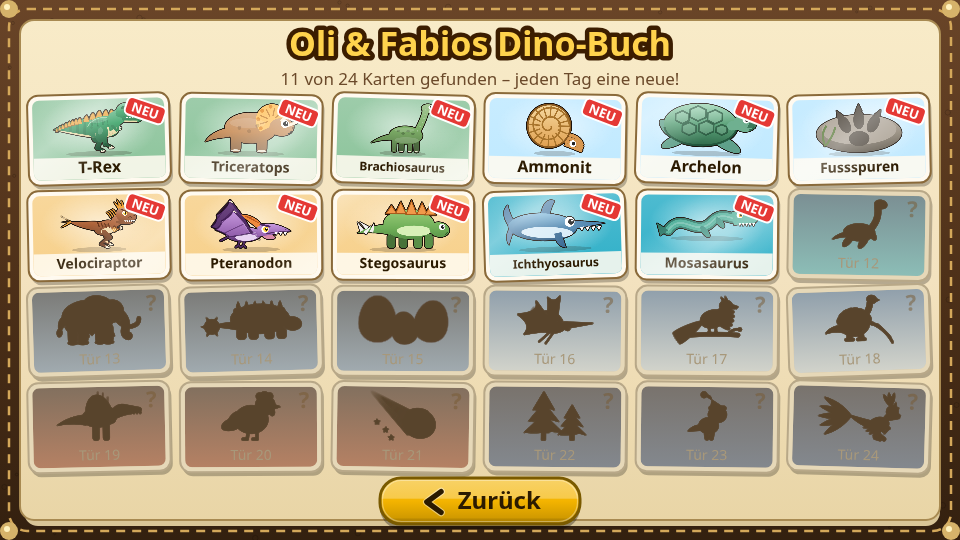
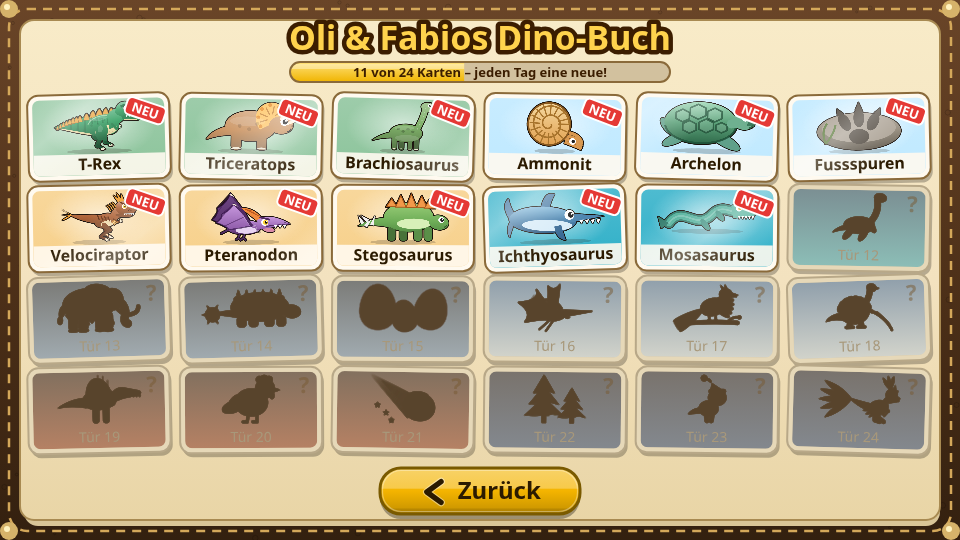
Rework Dino-Buch: richer facts, clearer Steckbrief, browse arrows
- Rewrite all 24 card texts with less trivial, checked facts
- Add "Name bedeutet" chip, world tag on the picture, child-chain size ruler
  and an Everest comparison for the meteorite
- Add previous/next arrows, progress pill and pop-in on the detail view
- Fit card names on the overview, tighten the grid

diff --git a/game.js b/game.js
@@ -690,33 +690,33 @@ WORLDS.push(
 );
 
 const FACTS_OLD = [
-  { name: 'T-Rex', text: 'Der Tyrannosaurus rex hatte rund 60 Zähne. Die grössten waren mit Wurzel so lang wie eine Banane!' },
-  { name: 'Triceratops', text: 'Der Triceratops hatte drei Hörner und einen riesigen Knochenschild am Nacken. Er frass nur Pflanzen.' },
-  { name: 'Brachiosaurus', text: 'Der Brachiosaurus war so hoch wie ein vierstöckiges Haus. Mit seinem langen Hals frass er Blätter ganz oben in den Bäumen.' },
-  { name: 'Velociraptor', text: 'Der Velociraptor war nur etwa so gross wie ein Truthahn – und er hatte Federn!' },
-  { name: 'Pteranodon', text: 'Der Pteranodon war gar kein Dinosaurier, sondern ein Flugsaurier. Seine Flügel waren breiter als ein Auto lang ist!' },
-  { name: 'Stegosaurus', text: 'Der Stegosaurus hatte grosse Platten auf dem Rücken und Stacheln am Schwanz. Sein Gehirn war nur so gross wie eine Walnuss!' },
-  { name: 'Wollhaarmammut', text: 'Das Wollhaarmammut lebte in der Eiszeit – viele Millionen Jahre nach den Dinosauriern. Sein dickes Fell hielt es warm.' },
-  { name: 'Ankylosaurus', text: 'Der Ankylosaurus war gepanzert wie ein Ritter und hatte eine schwere Knochenkeule am Schwanz.' },
-  { name: 'Dino-Eier', text: 'Alle Dinosaurier schlüpften aus Eiern. Die grössten Dino-Eier waren fast so gross wie ein Fussball!' },
-  { name: 'Spinosaurus', text: 'Der Spinosaurus hatte ein riesiges Segel auf dem Rücken. Er konnte schwimmen und frass am liebsten Fische.' },
-  { name: 'Huhn', text: 'Vögel stammen von Dinosauriern ab. Ein Huhn ist also ein entfernter Verwandter vom T-Rex!' },
-  { name: 'Meteorit', text: 'Vor etwa 66 Millionen Jahren schlug ein riesiger Meteorit auf der Erde ein. Danach starben die meisten Dinosaurier aus.' },
-  { name: 'Nadelbäume', text: 'Schon zur Dinozeit gab es Nadelbäume – dein Weihnachtsbaum hat also uralte Verwandte, die Dinos gesehen haben!' },
-  { name: 'Polar-Dinos', text: 'Sogar in der Nähe vom Südpol lebten Dinosaurier. Dort wurde es im Winter wochenlang dunkel und kalt!' },
-  { name: 'Federkleid', text: 'Viele Dinosaurier hatten Federn. Vielleicht hielten sie damit warm – wie eine kuschelige Winterjacke!' },
+  { name: 'T-Rex', text: 'Der T-Rex biss etwa zehnmal so fest zu wie ein Löwe – stark genug, um Knochen zu zermalmen. Seine winzigen Arme waren trotzdem sehr muskulös.' },
+  { name: 'Triceratops', text: 'Im Maul hatte der Triceratops mehrere Hundert Zähne in dichten Reihen, die ständig nachwuchsen – perfekt für zähe Pflanzen. Sein Schädel war über 2 Meter lang!' },
+  { name: 'Brachiosaurus', text: 'Der Brachiosaurus war bis zu 13 m hoch und rund 50 Tonnen schwer. Wie bei einer Giraffe waren seine Vorderbeine länger als die hinteren. Sein Herz musste das Blut bis in den Kopf hochpumpen!' },
+  { name: 'Velociraptor', text: 'Der echte Velociraptor war nur so gross wie ein Truthahn. Dass er Federn trug, weiss man von Knubbeln am Unterarmknochen, wo Federkiele festsassen. Die Film-Raptoren waren viel zu gross!' },
+  { name: 'Pteranodon', text: 'Der Pteranodon hatte keine Zähne, dafür einen langen Schnabel und einen Knochenkamm auf dem Kopf. Er war kein Dino, sondern ein Flugsaurier – seine Flügel spannten bis zu 6 Meter.' },
+  { name: 'Stegosaurus', text: 'Der Stegosaurus lebte etwa 80 Mio. Jahre vor dem T-Rex – der T-Rex lebte also zeitlich näher an uns als am Stegosaurus! Sein Gehirn war nur so gross wie eine Walnuss.' },
+  { name: 'Wollhaarmammut', text: 'Die letzten Mammuts lebten auf der Wrangelinsel noch vor rund 4000 Jahren – da standen die Pyramiden von Gizeh schon! Ihre Stosszähne wurden bis zu 4 Meter lang.' },
+  { name: 'Ankylosaurus', text: 'Der Ankylosaurus war ein wandelnder Panzer: Knochenplatten schützten Rücken, Kopf und sogar die Augenlider. Mit der Schwanzkeule konnte er einem Angreifer die Knochen brechen.' },
+  { name: 'Dino-Eier', text: 'Selbst die riesigsten Dinos legten nur Eier von der Grösse eines Fussballs – dickere Schalen hätten das Küken ersticken lassen. Das längste bekannte Dino-Ei misst über 40 cm.' },
+  { name: 'Spinosaurus', text: 'Der Spinosaurus war länger als der T-Rex. Mit krokodilartiger Schnauze, hoch sitzenden Nasenlöchern und einem paddelförmigen Schwanz jagte er wohl im Wasser nach Fischen.' },
+  { name: 'Huhn', text: 'Forscher fanden im Knochen eines T-Rex noch Eiweiss-Reste – und sie ähnelten denen eines Huhns am meisten! Alle Vögel sind lebende Dinosaurier.' },
+  { name: 'Meteorit', text: 'Der Meteorit schlug bei Chicxulub in Mexiko ein und riss einen Krater von rund 180 km. Staub verdunkelte den Himmel, Pflanzen starben. Nur kleine Tiere überlebten – auch die ersten Vögel.' },
+  { name: 'Nadelbäume', text: 'Nadelbäume gibt es seit rund 300 Mio. Jahren. Die Wollemie galt als ausgestorben, bis man 1994 in Australien lebende Bäume fand – ein Baum direkt aus der Dino-Zeit!' },
+  { name: 'Polar-Dinos', text: 'Vor 110 Mio. Jahren lag Südaustralien nahe am Südpol. Der kleine Leaellynasaura hatte grosse Augen für die Polarnacht – und seinen Namen von der Tochter der Finder.' },
+  { name: 'Federkleid', text: '1996 fand man in China den ersten Dino mit Federn – an seinem Schwanz sind sogar noch rotbraune Streifen zu erkennen! Auch der 9 m lange Yutyrannus, ein T-Rex-Verwandter, trug Federn.' },
 ];
 
 const FACTS_NEW = [
-  { name: 'Ammonit', text: 'Ammoniten waren Verwandte der Tintenfische mit einem Haus in Spiralform. Ihre Muscheln findet man heute noch versteinert!' },
-  { name: 'Archelon', text: 'Der Archelon war die grösste Meeresschildkröte aller Zeiten – so lang wie ein kleines Auto!' },
-  { name: 'Fussspuren', text: 'Dinosaurier haben Fussspuren hinterlassen. Im Stein kann man sie heute noch finden – sogar in der Schweiz!' },
-  { name: 'Ichthyosaurus', text: 'Der Ichthyosaurus sah aus wie ein Delfin, war aber ein Meeresreptil. Er konnte richtig schnell schwimmen!' },
-  { name: 'Mosasaurus', text: 'Der Mosasaurus war ein riesiges Meeresreptil – bis zu 12 Meter lang. Er war mit Echsen und Schlangen verwandt.' },
-  { name: 'Plesiosaurus', text: 'Der Plesiosaurus hatte einen langen Hals und vier Flossen. Er paddelte wie eine Schildkröte durchs Meer.' },
-  { name: 'Quetzalcoatlus', text: 'Der Quetzalcoatlus war einer der grössten Flugsaurier – seine Flügel waren so breit wie ein kleines Flugzeug!' },
-  { name: 'Archaeopteryx', text: 'Der Archaeopteryx war ein Urvogel mit Federn und Zähnen. Er war etwa so gross wie eine Elster.' },
-  { name: 'Therizinosaurus', text: 'Der Therizinosaurus hatte die längsten Krallen aller Tiere – so lang wie ein Unterarm! Er frass aber nur Pflanzen.' },
+  { name: 'Ammonit', text: 'Ammoniten schwammen in Urzeit-Meeren und starben zusammen mit den Dinos aus. Weil sich ihre Gehäuse so schnell veränderten, verraten sie Forschern genau, wie alt ein Gestein ist.' },
+  { name: 'Archelon', text: 'Der Archelon wog über 2 Tonnen. Statt eines harten Panzers hatte er einen Rücken aus Lederhaut mit Knochenstreben – und Flossen, die zusammen etwa 4 Meter spannten.' },
+  { name: 'Fussspuren', text: 'Bei Courtedoux im Jura fand man tausende Fussabdrücke von Langhals-Dinos. Aus dem Abstand der Spuren berechnen Forscher sogar, wie schnell ein Dino lief.' },
+  { name: 'Ichthyosaurus', text: 'Der Ichthyosaurus sah aus wie ein Delfin, war aber ein Reptil. Er atmete Luft und gebar lebende Junge im Wasser – meist mit dem Schwanz voran, damit sie nicht ertranken.' },
+  { name: 'Mosasaurus', text: 'Der Mosasaurus war ein Riesen-Verwandter der Warane und Schlangen und hatte sogar eine zweite Zahnreihe im Gaumen. Seinen ersten Schädel fand man bei Maastricht – daher der Name.' },
+  { name: 'Plesiosaurus', text: 'Das erste fast vollständige Plesiosaurus-Skelett fand 1823 die Fossiliensammlerin Mary Anning. Sein Hals hatte über 30 Wirbel – Menschen und Giraffen haben nur 7!' },
+  { name: 'Quetzalcoatlus', text: 'Der Quetzalcoatlus war am Boden so hoch wie eine Giraffe – und konnte trotzdem fliegen! Am Boden lief er auf allen vieren und stocherte wie ein Storch nach Beute.' },
+  { name: 'Archaeopteryx', text: '1861 fand man in Bayern ein Skelett mit Federn, Zähnen und Krallen an den Flügeln – ein Beweis, dass Vögel von Dinos abstammen. Wie gut er flog, ist bis heute umstritten.' },
+  { name: 'Therizinosaurus', text: 'Man fand zuerst nur seine Riesenkrallen (bis 50 cm) und hielt sie für Teile einer Riesenschildkröte! Dabei war er ein gefiederter Pflanzenfresser.' },
 ];
 // one card per level (24 days). Order follows the calendar: jungle, beach, canyon, underwater, ice age, mountains, volcano, Christmas.
 const FACTS = [...FACTS_OLD.slice(0, 3), ...FACTS_NEW.slice(0, 3), ...FACTS_OLD.slice(3, 6), ...FACTS_NEW.slice(3, 6), ...FACTS_OLD.slice(6, 9), ...FACTS_NEW.slice(6, 9), ...FACTS_OLD.slice(9, 12), ...FACTS_OLD.slice(12, 15)];
@@ -5484,7 +5484,7 @@ function drawSheet() {
     ['goetti', 'chili', 'rex', 'mami', 'papi', 'fabio', 'kiwi'].forEach((w, i) => drawPortrait(w, 70 + i * 130, 485, 38));
   }
 }
-let bookSel = -1;
+let bookSel = -1; const bookAnim = { sel: -1, t: 0 };
 function bookUnread() { const seen = save.bookSeen || []; return save.lvDone.reduce((n, d, i) => n + (d && !seen[i] ? 1 : 0), 0); } // found cards not yet opened in the Dino-Buch
 function leatherCover() {
   ctx.fillStyle = vgrad(0, H, '#6a4528', '#4f3119', '#33200f'); ctx.fillRect(0, 0, W, H);
@@ -5496,15 +5496,31 @@ function leatherCover() {
   rr(20, 20, W - 40, H - 40, 14); ctx.fillStyle = vgrad(20, H, '#f8ebc8', '#f3e2bf', '#e8d4a4'); ctx.fill(); ctx.lineWidth = 2; ctx.strokeStyle = '#a88a52'; ctx.stroke();
 }
 // ---------- Dino-Buch "Steckbrief": era, diet and a size comparison with a child ----------
-const STECK = [
-  { l: 'Lebte vor', e: '68 Mio. Jahren', d: 'Fleisch', dk: 'meat', m: 12 }, { l: 'Lebte vor', e: '68 Mio. Jahren', d: 'Pflanzen', dk: 'leaf', m: 9 }, { l: 'Lebte vor', e: '150 Mio. Jahren', d: 'Pflanzen', dk: 'leaf', m: 25 },
-  { l: 'Lebte vor', e: '200 Mio. Jahren', d: 'Plankton', dk: 'fish', m: 0.3 }, { l: 'Lebte vor', e: '75 Mio. Jahren', d: 'Quallen', dk: 'fish', m: 4 }, { l: 'Entstanden vor', e: '100 Mio. Jahren', d: '–', dk: 'none', m: 0.5 },
-  { l: 'Lebte vor', e: '75 Mio. Jahren', d: 'Fleisch', dk: 'meat', m: 2 }, { l: 'Lebte vor', e: '85 Mio. Jahren', d: 'Fische', dk: 'fish', m: 6, ml: 'Spannweite' }, { l: 'Lebte vor', e: '150 Mio. Jahren', d: 'Pflanzen', dk: 'leaf', m: 9 },
-  { l: 'Lebte vor', e: '200 Mio. Jahren', d: 'Fische', dk: 'fish', m: 3 }, { l: 'Lebte vor', e: '75 Mio. Jahren', d: 'Fleisch', dk: 'meat', m: 12 }, { l: 'Lebte vor', e: '200 Mio. Jahren', d: 'Fische', dk: 'fish', m: 4 },
-  { l: 'Lebte vor', e: '10 000 Jahren', d: 'Pflanzen', dk: 'leaf', m: 4 }, { l: 'Lebte vor', e: '68 Mio. Jahren', d: 'Pflanzen', dk: 'leaf', m: 7 }, { l: 'Gelegt vor', e: '70 Mio. Jahren', d: '–', dk: 'none', m: 0.3, ml: 'Grösse' },
-  { l: 'Lebte vor', e: '68 Mio. Jahren', d: 'Fleisch', dk: 'meat', m: 10, ml: 'Spannweite' }, { l: 'Lebte vor', e: '150 Mio. Jahren', d: 'Insekten', dk: 'meat', m: 0.5 }, { l: 'Lebte vor', e: '70 Mio. Jahren', d: 'Pflanzen', dk: 'leaf', m: 10 },
-  { l: 'Lebte vor', e: '95 Mio. Jahren', d: 'Fische', dk: 'fish', m: 14 }, { l: 'Lebt', e: 'heute noch', d: 'Alles', dk: 'all', m: 0.5 }, { l: 'Schlug ein vor', e: '66 Mio. Jahren', d: '–', dk: 'none', m: 0, txt: 'Etwa 10 km breit – so hoch wie der Mount Everest!' },
-  { l: 'Gibt es seit', e: '300 Mio. Jahren', d: 'Sonne', dk: 'none', m: 30, ml: 'Höhe' }, { l: 'Lebte vor', e: '110 Mio. Jahren', d: 'Pflanzen', dk: 'leaf', m: 1 }, { l: 'Lebte vor', e: '130 Mio. Jahren', d: 'Fleisch', dk: 'meat', m: 1 },
+const STECK = [ // order = FACTS. nm/nl: the "Name bedeutet" chip (nl overrides its label); m: metres for the ruler (0 = custom comparison)
+  { l: 'Lebte vor', e: '68 Mio. Jahren', d: 'Fleisch', dk: 'meat', m: 12, nm: '«König der Tyrannen-Echsen»' },
+  { l: 'Lebte vor', e: '68 Mio. Jahren', d: 'Pflanzen', dk: 'leaf', m: 9, nm: '«Dreihorn-Gesicht»' },
+  { l: 'Lebte vor', e: '150 Mio. Jahren', d: 'Pflanzen', dk: 'leaf', m: 25, nm: '«Arm-Echse» (lange Vorderbeine)' },
+  { l: 'Lebte vor', e: '400–66 Mio. Jahren', d: 'Plankton', dk: 'fish', m: 0.3, ml: 'Meist', nm: '«Ammons Horn» (Gott Amun)' },
+  { l: 'Lebte vor', e: '75 Mio. Jahren', d: 'Quallen', dk: 'fish', m: 4.6, nm: '«Herrscher-Schildkröte»' },
+  { l: 'Spuren von vor', e: '150 Mio. Jahren', d: '–', dk: 'none', m: 0.5, ml: 'Abdruck', nl: 'Fachwort', nm: 'Spurenfossil' },
+  { l: 'Lebte vor', e: '75 Mio. Jahren', d: 'Fleisch', dk: 'meat', m: 2, nm: '«Schneller Räuber»' },
+  { l: 'Lebte vor', e: '85 Mio. Jahren', d: 'Fische', dk: 'fish', m: 6, ml: 'Spannweite', nm: '«Flügel ohne Zähne»' },
+  { l: 'Lebte vor', e: '150 Mio. Jahren', d: 'Pflanzen', dk: 'leaf', m: 9, nm: '«Dach-Echse»' },
+  { l: 'Lebte vor', e: '200 Mio. Jahren', d: 'Fische', dk: 'fish', m: 3, nm: '«Fisch-Echse»' },
+  { l: 'Lebte vor', e: '75 Mio. Jahren', d: 'Fleisch', dk: 'meat', m: 12, nm: '«Maas-Echse» (Fundort Maastricht)' },
+  { l: 'Lebte vor', e: '200 Mio. Jahren', d: 'Fische', dk: 'fish', m: 4, nm: '«Fast-Echse»' },
+  { l: 'Starb aus vor', e: '4000 Jahren', d: 'Pflanzen', dk: 'leaf', m: 4, nl: 'Fachname', nm: 'Mammuthus primigenius' },
+  { l: 'Lebte vor', e: '68 Mio. Jahren', d: 'Pflanzen', dk: 'leaf', m: 7, nm: '«Verwachsene Echse»' },
+  { l: 'Gelegt vor', e: '70 Mio. Jahren', d: '–', dk: 'none', m: 0.3, ml: 'Grösse', nl: 'Fachwort', nm: 'Oologie = Eier-Forschung' },
+  { l: 'Lebte vor', e: '68 Mio. Jahren', d: 'Fleisch', dk: 'meat', m: 10, ml: 'Spannweite', nm: '«Gefiederte Schlange» (Aztekengott)' },
+  { l: 'Lebte vor', e: '150 Mio. Jahren', d: 'Insekten', dk: 'meat', m: 0.5, nm: '«Alte Feder»' },
+  { l: 'Lebte vor', e: '70 Mio. Jahren', d: 'Pflanzen', dk: 'leaf', m: 10, nm: '«Sichel-Echse»' },
+  { l: 'Lebte vor', e: '95 Mio. Jahren', d: 'Fische', dk: 'fish', m: 14, nm: '«Dornen-Echse»' },
+  { l: 'Lebt', e: 'heute noch', d: 'Alles', dk: 'all', m: 0.5, nl: 'Fachname', nm: 'Gallus gallus' },
+  { l: 'Schlug ein vor', e: '66 Mio. Jahren', d: '–', dk: 'none', m: 0, cmp: 'everest', txt: 'Etwa 10 km breit – breiter, als der Mount Everest hoch ist!', nl: 'Einschlag bei', nm: 'Chicxulub in Mexiko' },
+  { l: 'Gibt es seit', e: '300 Mio. Jahren', d: 'Sonne', dk: 'none', m: 30, ml: 'Höhe', nl: 'Fachwort', nm: 'Koniferen = Zapfenträger' },
+  { l: 'Lebte vor', e: '110 Mio. Jahren', d: 'Pflanzen', dk: 'leaf', m: 1, nl: 'Bekanntester Polar-Dino', nm: 'Leaellynasaura' },
+  { l: 'Lebte vor', e: '125 Mio. Jahren', d: 'Fleisch', dk: 'meat', m: 1, nl: 'Erster Feder-Dino', nm: 'Sinosauropteryx (China)' },
 ];
 function drawKid(x, base, h) { // a child silhouette, h pixels tall, standing at x
   const u = h / 100; ctx.save(); ctx.translate(x, base); ctx.scale(u, u);
@@ -5514,14 +5530,29 @@ function drawKid(x, base, h) { // a child silhouette, h pixels tall, standing at
 }
 function drawSizeRuler(x, y, w, h, st, th) {
   rr(x, y, w, h, 14); ctx.fillStyle = 'rgba(255,250,235,.9)'; ctx.fill(); ctx.lineWidth = 2; ctx.strokeStyle = '#b8a070'; ctx.stroke();
-  if (!st.m) { txt('Grösse im Vergleich', x + w / 2, y + 14, 14, '#8a6a3a', 'center', 'normal'); wrapLines(st.txt || '', w - 40, 17).forEach((l, i, a) => txt(l, x + w / 2, y + h / 2 + 6 + (i - (a.length - 1) / 2) * 22, 17, '#3b2410', 'center', 'normal')); return; }
-  const base = y + h - 12, sc = Math.min(36, (w - 70) / st.m), kidH = 1.4 * sc, len = st.m * sc, kx = x + 34;
-  txt('Grösse im Vergleich', x + w / 2, y + 14, 14, '#8a6a3a', 'center', 'normal');
-  ctx.strokeStyle = 'rgba(138,106,58,.35)'; ctx.lineWidth = 2; ctx.setLineDash([5, 5]); ctx.beginPath(); ctx.moveTo(x + 14, base); ctx.lineTo(x + w - 14, base); ctx.stroke(); ctx.setLineDash([]);
-  drawKid(kx, base, Math.max(14, kidH));
-  const bx = kx + 20, by = base - 20; rr(bx, by, Math.max(8, len), 18, 9); ctx.fillStyle = vgrad(by, by + 18, shade(th.sky[0], 1.25), shade(th.sky[0], 0.8)); ctx.fill(); ctx.lineWidth = 2.5; ctx.strokeStyle = '#2b1a0c'; ctx.stroke();
+  txt('Grösse im Vergleich', x + 16, y + 17, 13, '#8a6a3a', 'left', 'normal');
+  const base = y + h - 16;
+  if (st.cmp !== 'everest') { ctx.strokeStyle = 'rgba(138,106,58,.35)'; ctx.lineWidth = 2; ctx.setLineDash([5, 5]); ctx.beginPath(); ctx.moveTo(x + 14, base + 2); ctx.lineTo(x + w - 14, base + 2); ctx.stroke(); ctx.setLineDash([]); }
+  if (st.cmp === 'everest') { // meteorite vs. mountain, 6 px per km
+    const k = 6, bs = y + h - 32, mx = x + w * 0.3, cx = x + w * 0.7;
+    wrapLines(st.txt, w - 32, 14).forEach((l, i) => txt(l, x + w / 2, y + 40 + i * 18, 14, '#3b2410', 'center', 'normal'));
+    ctx.fillStyle = '#8f98a6'; ctx.beginPath(); ctx.moveTo(mx - 40, bs); ctx.lineTo(mx, bs - 8.8 * k); ctx.lineTo(mx + 40, bs); ctx.closePath(); ctx.fill(); ctx.strokeStyle = '#4a525e'; ctx.lineWidth = 2; ctx.lineJoin = 'round'; ctx.stroke();
+    const ty = bs - 8.8 * k; ctx.fillStyle = '#fff'; ctx.beginPath(); ctx.moveTo(mx - 9, ty + 14); ctx.lineTo(mx, ty); ctx.lineTo(mx + 9, ty + 14); ctx.lineTo(mx + 3, ty + 11); ctx.lineTo(mx - 2, ty + 15); ctx.closePath(); ctx.fill();
+    circle(cx, bs - 5 * k, 5 * k, '#6b5a4a'); circle(cx - 8, bs - 5 * k - 8, 6, 'rgba(255,255,255,.14)'); ctx.strokeStyle = '#2b1a0c'; ctx.lineWidth = 2.5; ctx.beginPath(); ctx.arc(cx, bs - 5 * k, 5 * k, 0, 7); ctx.stroke();
+    txt('Mount Everest: 8,8 km', mx, y + h - 14, 12, '#3b2410', 'center'); txt('Meteorit: 10 km', cx, y + h - 14, 12, '#3b2410', 'center');
+    return;
+  }
   const m = st.m >= 10 ? Math.round(st.m) : String(st.m).replace('.', ','), kids = Math.max(1, Math.round(st.m / 1.4));
-  txt(`${st.ml || 'Länge'}: ${m} m`, x + w - 16, y + 31, 18, '#3b2410', 'right'); txt(st.m < 1 ? 'kleiner als ein Kind' : `so lang wie ${kids} ${kids === 1 ? 'Kind' : 'Kinder'}`, x + w - 16, y + 50, 14, '#6b4a2b', 'right', 'normal');
+  const chain = kids >= 2 && st.m >= 2, sc = Math.min(48, (w - (chain ? 44 : 76)) / st.m), kidH = 1.4 * sc, len = st.m * sc, kx = x + 30;
+  txt(`${st.ml || 'Länge'}: ${m} m`, x + 16, y + 41, 22, '#3b2410', 'left');
+  txt(st.m < 1 ? 'kleiner als ein Kind' : `so lang wie ${kids} ${kids === 1 ? 'Kind' : 'Kinder'}`, x + w - 16, y + 17, 14, '#6b4a2b', 'right', 'normal');
+  if (!chain) drawKid(kx, base, Math.max(14, kidH));
+  const bx = chain ? x + 22 : kx + 22, bh = Math.max(10, Math.min(30, sc * 0.9)), by = base - bh, bl = Math.max(8, len);
+  rr(bx, by, bl, bh, bh / 2); ctx.fillStyle = vgrad(by, base, shade(th.sky[0], 1.3), shade(th.sky[0], 0.8)); ctx.fill(); ctx.lineWidth = 2.5; ctx.strokeStyle = '#2b1a0c'; ctx.stroke();
+  if (st.m >= 2) { const step = st.m > 14 ? 5 : 1; ctx.save(); rr(bx, by, bl, bh, bh / 2); ctx.clip(); ctx.strokeStyle = 'rgba(255,255,255,.55)'; ctx.lineWidth = 1.5; for (let u = step; u < st.m; u += step) { ctx.beginPath(); ctx.moveTo(bx + u * sc, by + bh * 0.55); ctx.lineTo(bx + u * sc, base); ctx.stroke(); } ctx.restore(); }
+  if (chain) { const sp = bl / kids, hk = Math.max(16, Math.min(34, sp * 1.7)); for (let k = 0; k < kids; k++) drawKid(bx + sp * (k + 0.5), by - 3, hk); } // a chain of children, as long as the animal
+  else if (st.m >= 2) { ctx.strokeStyle = '#8a6a3a'; ctx.lineWidth = 2; ctx.beginPath(); ctx.moveTo(bx, by - 11); ctx.lineTo(bx, by - 5); ctx.moveTo(bx, by - 8); ctx.lineTo(bx + bl, by - 8); ctx.moveTo(bx + bl, by - 11); ctx.lineTo(bx + bl, by - 5); ctx.stroke(); }
+  if (st.m >= 2) txt(st.m > 14 ? '1 Strich = 5 m' : '1 Strich = 1 m', x + w - 16, y + 41, 12, '#8a6a3a', 'right', 'normal');
 }
 function drawHourglass(x, y) { ctx.fillStyle = '#e8c070'; ctx.strokeStyle = '#6b4a2b'; ctx.lineWidth = 2; ctx.beginPath(); ctx.moveTo(x - 8, y - 10); ctx.lineTo(x + 8, y - 10); ctx.lineTo(x + 1.5, y); ctx.lineTo(x + 8, y + 10); ctx.lineTo(x - 8, y + 10); ctx.lineTo(x - 1.5, y); ctx.closePath(); ctx.fill(); ctx.stroke(); ctx.fillStyle = '#c98a3a'; ctx.beginPath(); ctx.moveTo(x - 5, y + 9); ctx.lineTo(x + 5, y + 9); ctx.lineTo(x, y + 3); ctx.fill(); }
 function drawDietIcon(k, x, y) {
@@ -5532,6 +5563,8 @@ function drawDietIcon(k, x, y) {
   if (k === 'none') { ctx.strokeStyle = '#a09070'; ctx.lineWidth = 3; ctx.beginPath(); ctx.moveTo(-7, 0); ctx.lineTo(7, 0); ctx.stroke(); }
   ctx.restore();
 }
+function drawNameIcon(x, y) { circle(x, y, 11, '#f0d58a'); ctx.lineWidth = 2; ctx.strokeStyle = '#8a6a3a'; ctx.beginPath(); ctx.arc(x, y, 11, 0, 7); ctx.stroke(); txt('Aa', x, y + 1, 12, '#5a3a14', 'center'); }
+function fitTxt(s, x, y, maxW, size, min, color, align = 'center') { let fs = size; setFont(fs); while (ctx.measureText(s).width > maxW && fs > min) { fs--; setFont(fs); } txt(s, x, y, fs, color, align); }
 function steckChip(x, y, w, label, value, icon) {
   rr(x, y + 2, w, 42, 12); ctx.fillStyle = 'rgba(0,0,0,.12)'; ctx.fill(); rr(x, y, w, 42, 12); ctx.fillStyle = '#fffaf0'; ctx.fill(); ctx.lineWidth = 2; ctx.strokeStyle = '#b8a070'; ctx.stroke();
   icon(x + 22, y + 21); txt(label, x + 42, y + 13, 12, '#8a6a3a', 'left', 'normal');
@@ -5543,35 +5576,56 @@ function foil(x, y, w, h, r, t) { // diagonal shimmer on found cards
 }
 function drawBook() {
   leatherCover();
-  otxt('Oli & Fabios Dino-Buch', W / 2, 46, 34, '#ffd34d', '#3b1d00', 9);
   const found = save.lvDone.filter(Boolean).length;
-  txt(`${found} von ${FACTS.length} Karten gefunden – jeden Tag eine neue!`, W / 2, 80, 17, '#6b4a2b', 'center', 'normal');
+  if (bookSel < 0) {
+    otxt('Oli & Fabios Dino-Buch', W / 2, 40, 34, '#ffd34d', '#3b1d00', 9);
+    const bw = 380, bx = (W - bw) / 2, by = 62, fr = found / FACTS.length; // progress pill
+    rr(bx, by, bw, 20, 10); ctx.fillStyle = 'rgba(80,50,20,.22)'; ctx.fill();
+    if (fr > 0) { ctx.save(); rr(bx, by, bw, 20, 10); ctx.clip(); ctx.fillStyle = vgrad(by, by + 20, '#ffe27a', '#f0b400'); ctx.fillRect(bx, by, Math.max(20, bw * fr), 20); ctx.fillStyle = 'rgba(255,255,255,.35)'; ctx.fillRect(bx, by + 2, Math.max(20, bw * fr), 5); ctx.restore(); }
+    rr(bx, by, bw, 20, 10); ctx.lineWidth = 2; ctx.strokeStyle = '#8a6a3a'; ctx.stroke();
+    txt(found >= FACTS.length ? 'Alle Karten gefunden – echte Dino-Forscher!' : `${found} von ${FACTS.length} Karten – jeden Tag eine neue!`, W / 2, by + 11, 13, '#3b1d00');
+  }
   if (!save.bookSeen) save.bookSeen = [];
   for (let i = 0; i < FACTS.length; i++) {
     const lv = LEVELS[i], th = WORLDS[lv.wi], has = !!save.lvDone[i];
-    const x = 28 + (i % 6) * 152, y = 94 + Math.floor(i / 6) * 96, w = 142, h = 90, isNew = has && !save.bookSeen[i];
+    const x = 28 + (i % 6) * 152, y = 94 + Math.floor(i / 6) * 91, w = 142, h = 86, isNew = has && !save.bookSeen[i];
     ctx.save(); ctx.translate(x + w / 2, y + h / 2); ctx.rotate((hash(i * 3 + 1) - 0.5) * 0.07); ctx.translate(-w / 2, -h / 2);
     rr(2, 4, w, h, 11); ctx.fillStyle = 'rgba(0,0,0,.25)'; ctx.fill();
     rr(0, 0, w, h, 11); ctx.fillStyle = has ? '#fffaf0' : '#e6d8b8'; ctx.fill(); ctx.lineWidth = 2; ctx.strokeStyle = has ? '#8a6a3a' : '#b8a888'; ctx.stroke();
     rr(5, 5, w - 10, h - 10, 7); ctx.fillStyle = has ? vgrad(5, h - 5, shade(th.sky[1], 1.15), th.sky[1]) : '#d8c8a8'; ctx.fill();
-    if (has) { drawCardArt(i, w / 2, 36, 120, false); ctx.save(); rr(5, 5, w - 10, h - 10, 7); ctx.clip(); ctx.fillStyle = 'rgba(255,250,240,.88)'; ctx.fillRect(5, h - 27, w - 10, 22); ctx.restore(); txt(FACTS[i].name, w / 2, h - 16, FACTS[i].name.length > 12 ? 12 : FACTS[i].name.length > 9 ? 14 : 16, '#2b1a00'); foil(5, 5, w - 10, h - 10, 7, T + i); }
-    else { ctx.save(); rr(5, 5, w - 10, h - 10, 7); ctx.clip(); ctx.globalAlpha = 0.45; ctx.fillStyle = vgrad(5, h - 5, th.sky[0], th.sky[1]); ctx.fillRect(5, 5, w - 10, h - 10); ctx.globalAlpha = 1; ctx.restore(); drawCardArt(i, w / 2, 36, 120, true); txt(`Tür ${i + 1}`, w / 2, h - 16, 14, '#a8987a', 'center', 'normal'); txt('?', w - 18, 20, 22, 'rgba(120,90,50,.5)'); }
+    if (has) { drawCardArt(i, w / 2, 34, 118, false); ctx.save(); rr(5, 5, w - 10, h - 10, 7); ctx.clip(); ctx.fillStyle = 'rgba(255,250,240,.9)'; ctx.fillRect(5, h - 26, w - 10, 21); ctx.restore(); fitTxt(FACTS[i].name, w / 2, h - 15, w - 22, 16, 11, '#2b1a00'); foil(5, 5, w - 10, h - 10, 7, T + i); }
+    else { ctx.save(); rr(5, 5, w - 10, h - 10, 7); ctx.clip(); ctx.globalAlpha = 0.45; ctx.fillStyle = vgrad(5, h - 5, th.sky[0], th.sky[1]); ctx.fillRect(5, 5, w - 10, h - 10); ctx.globalAlpha = 1; ctx.restore(); drawCardArt(i, w / 2, 34, 118, true); txt(`Tür ${i + 1}`, w / 2, h - 15, 14, '#a8987a', 'center', 'normal'); txt('?', w - 18, 20, 22, 'rgba(120,90,50,.5)'); }
     if (isNew) { ctx.save(); ctx.translate(w - 24, 18); ctx.rotate(0.35); rr(-20, -9, 40, 18, 5); ctx.fillStyle = '#e53935'; ctx.fill(); ctx.lineWidth = 2; ctx.strokeStyle = '#fff'; ctx.stroke(); txt('NEU', 0, 1, 13, '#fff'); ctx.restore(); }
     ctx.restore();
     if (bookSel < 0) buttons.push({ x, y, w, h, cb: () => { if (has) { bookSel = i; save.bookSeen[i] = true; writeSave(); } else toast(`Diese Karte findest du in Tür ${i + 1}.`, '#fff'); } });
   }
-  if (bookSel < 0) button('Zurück', W / 2 - 100, H - 62, 200, 46, () => go('map'), { size: 24, icon: icon('back') });
+  if (bookSel < 0) button('Zurück', W / 2 - 100, H - 72, 200, 46, () => go('map'), { size: 24, icon: icon('back') });
   else {
-    const th = WORLDS[LEVELS[bookSel].wi], st = STECK[bookSel];
-    panel(90, 56, 780, 420);
-    ctx.save(); rr(120, 88, 340, 186, 18); ctx.clip(); ctx.fillStyle = vgrad(88, 274, shade(th.sky[1], 1.2), th.sky[1]); ctx.fillRect(120, 88, 340, 186); ctx.restore(); rr(120, 88, 340, 186, 18); ctx.lineWidth = 4; ctx.strokeStyle = '#fffaf0'; ctx.stroke(); rr(118, 86, 344, 190, 20); ctx.lineWidth = 2; ctx.strokeStyle = '#8a6a3a'; ctx.stroke();
-    drawCardArt(bookSel, 290, 181, 262, false); foil(120, 88, 340, 186, 18, T);
-    drawSizeRuler(120, 284, 340, 96, st, th);
-    txt(FACTS[bookSel].name, 500, 118, FACTS[bookSel].name.length > 11 ? 32 : 38, '#3b2410', 'left'); txt(`Tür ${bookSel + 1} · ${LEVELS[bookSel].title}`, 500, 150, 18, '#8a6a3a', 'left', 'normal');
-    wrapLines(FACTS[bookSel].text, 340, 21).forEach((l, i) => txt(l, 500, 184 + i * 27, 21, '#3b2410', 'left', 'normal'));
-    if (st.d === '–') steckChip(500, 314, 350, st.l, st.e, (x, y) => drawHourglass(x, y)); else { steckChip(500, 314, 172, st.l, st.e, (x, y) => drawHourglass(x, y)); steckChip(678, 314, 172, 'Frisst', st.d, (x, y) => drawDietIcon(st.dk, x, y)); } steckChip(500, 362, 350, 'Zuhause in der Welt', th.name, (x, y) => { ctx.save(); rr(x - 13, y - 9, 26, 18, 4); ctx.clip(); drawThemeThumb(LEVELS[bookSel].wi, x - 13, y - 9, 26, 18); ctx.restore(); });
-    button('Schliessen', W / 2 - 110, 420, 220, 46, () => { bookSel = -1; }, { icon: icon('check'), size: 24 });
+    if (bookAnim.sel !== bookSel) { bookAnim.sel = bookSel; bookAnim.t = T; }
+    const th = WORLDS[LEVELS[bookSel].wi], st = STECK[bookSel], f = FACTS[bookSel], pu = clamp((T - bookAnim.t) * 7, 0, 1), pop = 0.94 + 0.06 * (1 - Math.pow(1 - pu, 3));
+    ctx.save(); ctx.translate(W / 2, H / 2); ctx.scale(pop, pop); ctx.translate(-W / 2, -H / 2); ctx.globalAlpha = 0.4 + 0.6 * pu;
+    panel(80, 34, 800, 474);
+    ctx.save(); rr(112, 66, 350, 196, 18); ctx.clip(); ctx.fillStyle = vgrad(66, 262, shade(th.sky[1], 1.2), th.sky[1]); ctx.fillRect(112, 66, 350, 196); ctx.restore(); rr(112, 66, 350, 196, 18); ctx.lineWidth = 4; ctx.strokeStyle = '#fffaf0'; ctx.stroke(); rr(110, 64, 354, 200, 20); ctx.lineWidth = 2; ctx.strokeStyle = '#8a6a3a'; ctx.stroke();
+    drawCardArt(bookSel, 287, 160, 296, false); foil(112, 66, 350, 196, 18, T);
+    { const wl = th.name; setFont(13); const pw = ctx.measureText(wl).width + 50; rr(122, 228, pw, 26, 13); ctx.fillStyle = 'rgba(255,250,235,.92)'; ctx.fill(); ctx.lineWidth = 1.5; ctx.strokeStyle = '#b8a070'; ctx.stroke(); ctx.save(); rr(126, 232, 28, 18, 4); ctx.clip(); drawThemeThumb(LEVELS[bookSel].wi, 126, 232, 28, 18); ctx.restore(); txt(wl, 162, 242, 13, '#3b2410', 'left'); }
+    drawSizeRuler(112, 272, 350, 156, st, th);
+    fitTxt(f.name, 496, 98, 352, 38, 26, '#3b2410', 'left'); txt(`Tür ${bookSel + 1} · ${LEVELS[bookSel].title}`, 496, 132, 17, '#8a6a3a', 'left', 'normal');
+    let fs = 21, lines; for (; fs > 15; fs--) { lines = wrapLines(f.text, 352, fs); if (166 + (lines.length - 1) * fs * 1.28 <= 316) break; }
+    lines.forEach((l, i) => txt(l, 496, 166 + i * fs * 1.28, fs, '#3b2410', 'left', 'normal'));
+    if (st.d === '–') steckChip(496, 336, 352, st.l, st.e, (x, y) => drawHourglass(x, y)); else { steckChip(496, 336, 172, st.l, st.e, (x, y) => drawHourglass(x, y)); steckChip(676, 336, 172, 'Frisst', st.d, (x, y) => drawDietIcon(st.dk, x, y)); }
+    steckChip(496, 386, 352, st.nl || 'Name bedeutet', st.nm, drawNameIcon);
+    ctx.strokeStyle = 'rgba(138,106,58,.35)'; ctx.lineWidth = 2; ctx.setLineDash([2, 6]); ctx.lineCap = 'round'; ctx.beginPath(); ctx.moveTo(496, 322); ctx.lineTo(848, 322); ctx.stroke(); ctx.setLineDash([]);
+    button('Schliessen', W / 2 - 110, 444, 220, 46, () => { bookSel = -1; }, { icon: icon('check'), size: 24 });
+    ctx.restore();
     buttons.unshift({ x: 0, y: 0, w: W, h: H, cb: () => { bookSel = -1; } });
+    for (const dir of [-1, 1]) { // previous / next found card
+      let j = bookSel; do { j = (j + dir + FACTS.length) % FACTS.length; } while (!save.lvDone[j] && j !== bookSel);
+      if (j === bookSel) continue;
+      const ax = dir < 0 ? 44 : W - 44, ay = 270, hov = 1 + 0.06 * Math.sin(T * 4 + dir);
+      ctx.save(); ctx.translate(ax, ay); ctx.scale(hov, hov); circle(0, 4, 27, 'rgba(0,0,0,.3)'); circle(0, 0, 27, '#f4b400'); ctx.lineWidth = 3; ctx.strokeStyle = '#7a4a00'; ctx.beginPath(); ctx.arc(0, 0, 27, 0, 7); ctx.stroke();
+      ctx.strokeStyle = '#3b1d00'; ctx.lineWidth = 6; ctx.lineCap = 'round'; ctx.lineJoin = 'round'; ctx.beginPath(); ctx.moveTo(-dir * 6, -12); ctx.lineTo(dir * 7, 0); ctx.lineTo(-dir * 6, 12); ctx.stroke(); ctx.restore();
+      buttons.push({ x: ax - 34, y: ay - 34, w: 68, h: 68, cb: () => { bookSel = j; save.bookSeen[j] = true; writeSave(); } });
+    }
   }
 }
 
